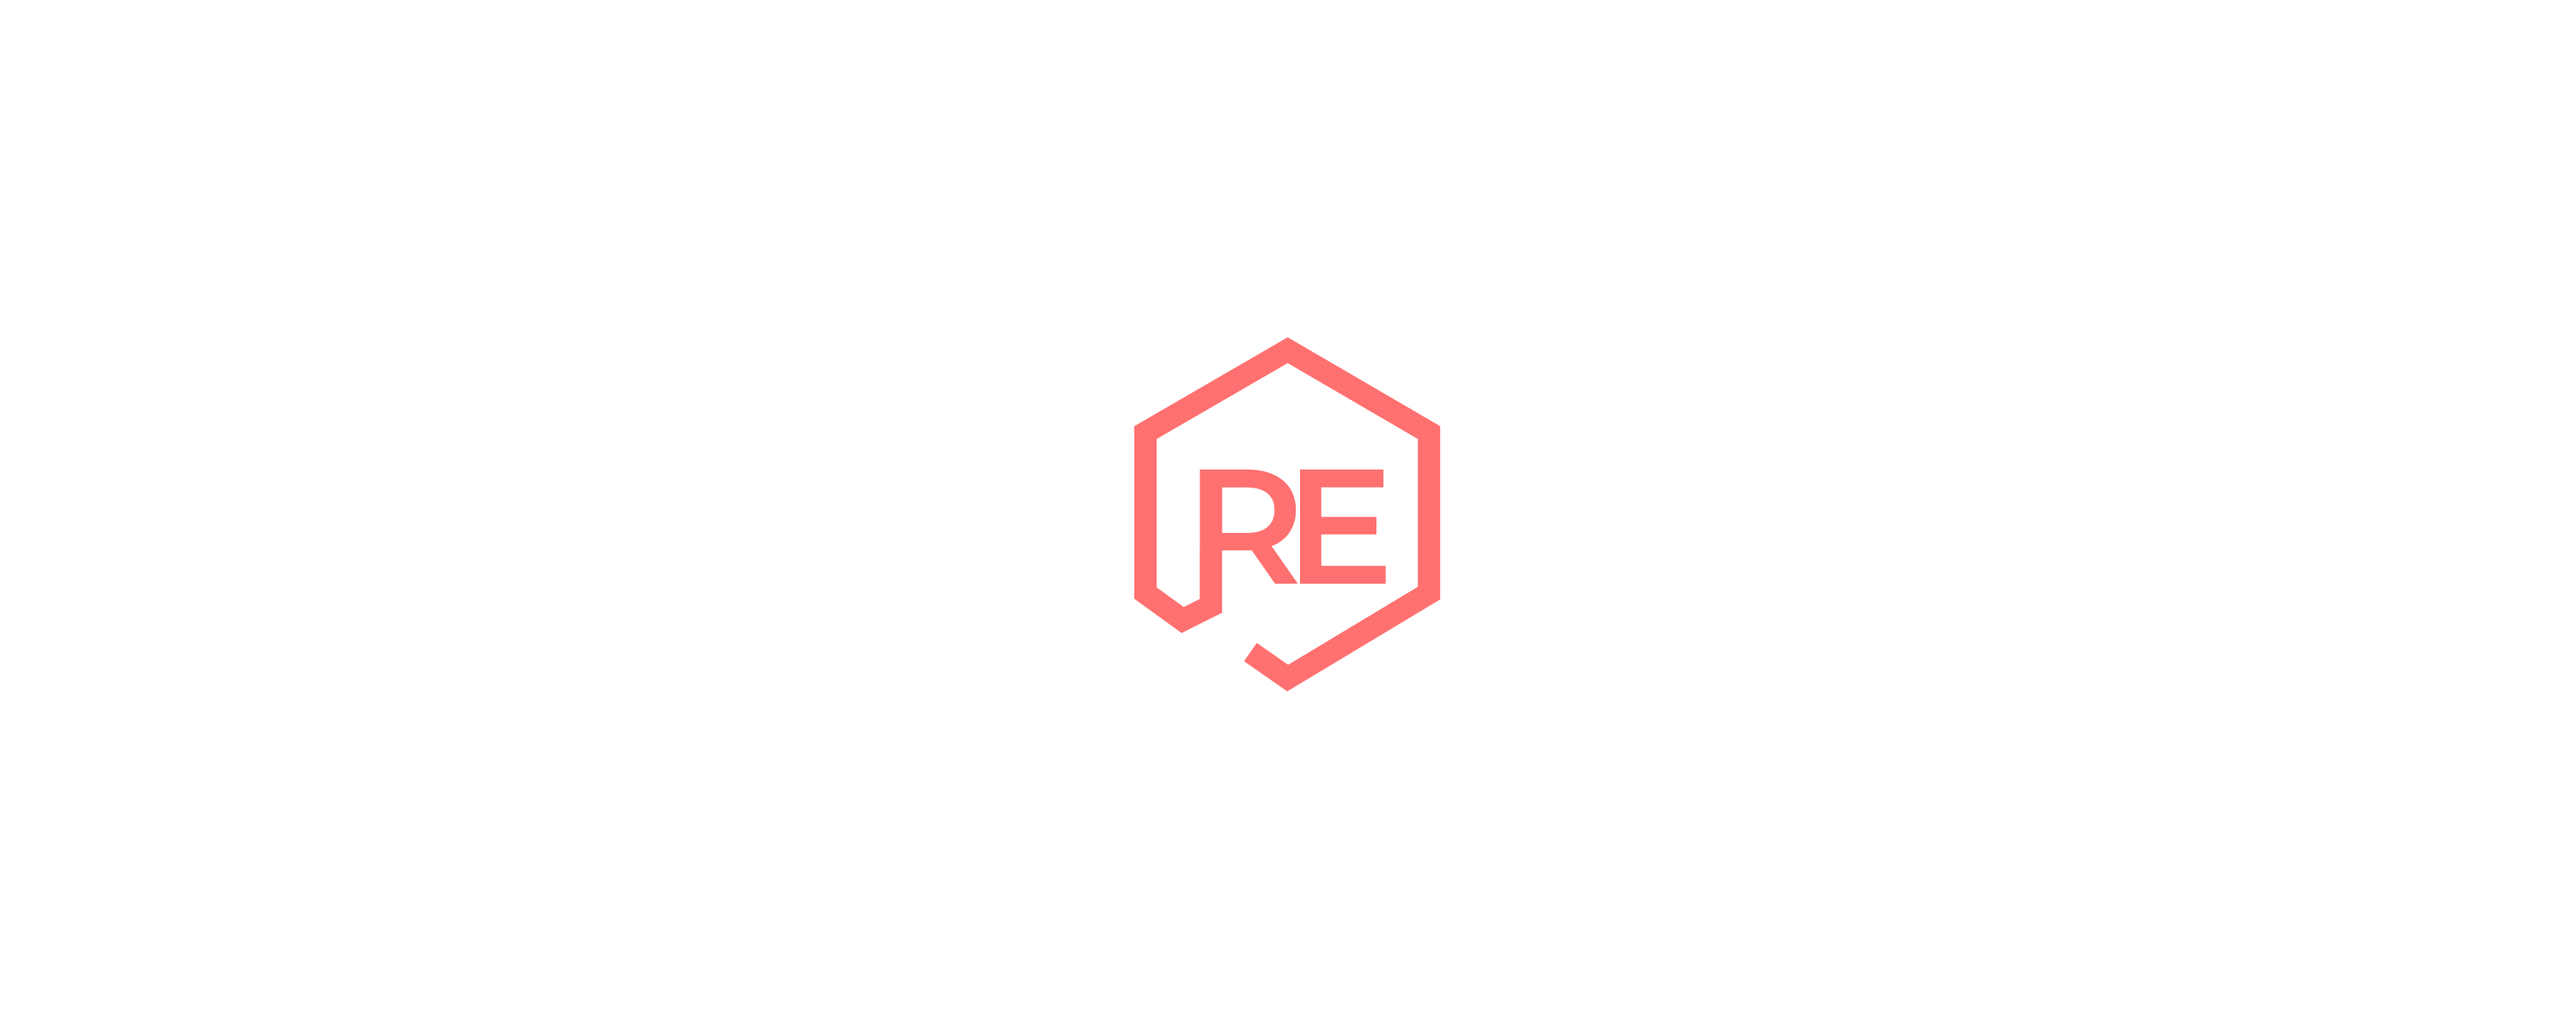
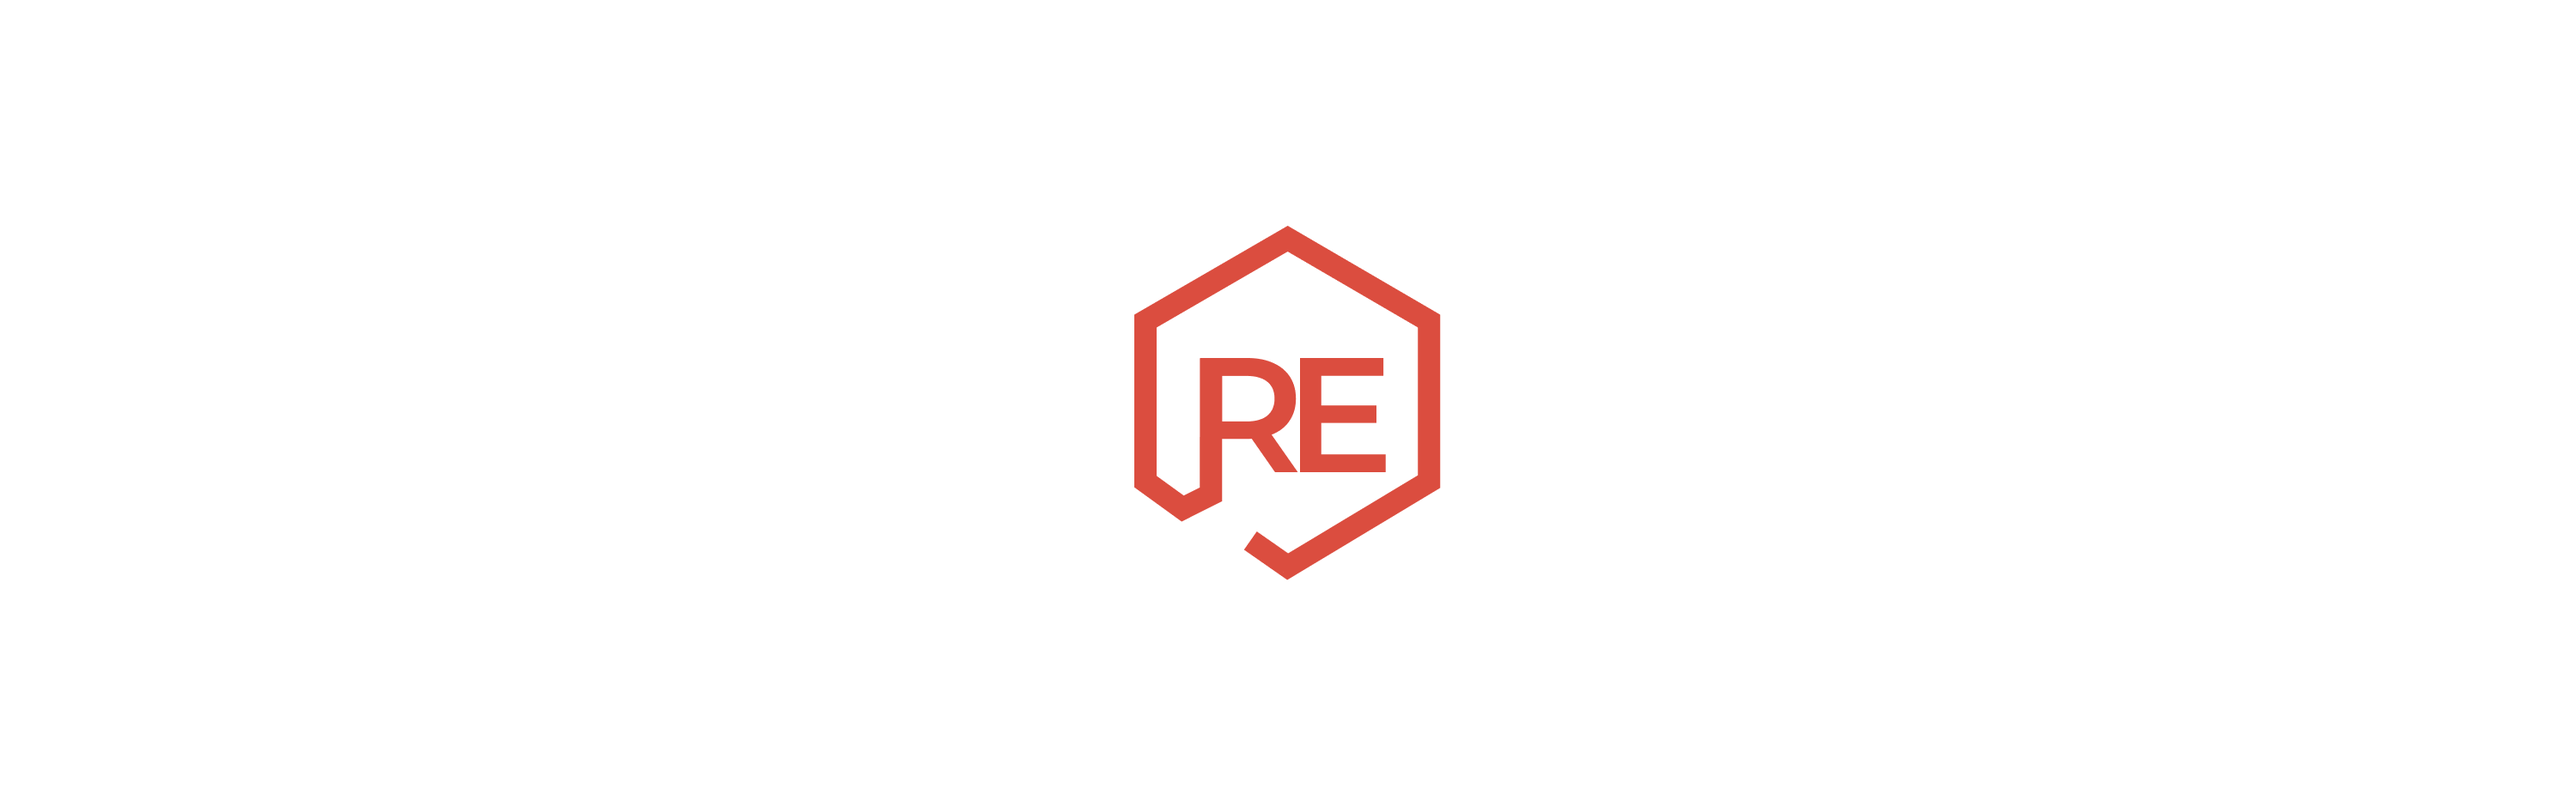
update theme

Changed region(s): [[0.434, 0.2777, 0.558, 0.7096]]

diff --git a/website/siteConfig.js b/website/siteConfig.js
@@ -31,11 +31,6 @@ const siteConfig = {
   headerIcon: "img/reasonNode.svg",
   footerIcon: "img/reasonNode.svg",
   favicon: "img/favicon.png",
-  /* colors for website */
-  colors: {
-    primaryColor: "#FF7070",
-    secondaryColor: "#ED5C5C"
-  },
   // This copyright info is used in /core/Footer.js and blog rss/atom feeds.
   copyright: "Copyright © " + new Date().getFullYear() + "Reason Training",
   // organizationName: 'deltice', // or set an env variable ORGANIZATION_NAME
